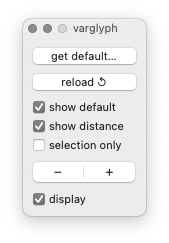
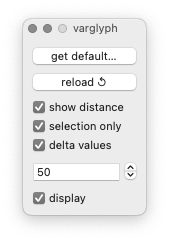
updating docs for VarGlyphViewer

diff --git a/Lib/xTools4/dialogs/variable/VarGlyphViewer.py b/Lib/xTools4/dialogs/variable/VarGlyphViewer.py
@@ -77,6 +77,10 @@ class VarGlyphViewer(ezui.WindowController):
             sizeStyle="regular",
             width='fill',
         ),
+        threshold=dict(
+            minValue=0,
+            maxValue=1000,
+        ),
     )
 
     def build(self):

diff --git a/docs/_reference/tools/variable/varglyph-viewer.md b/docs/_reference/tools/variable/varglyph-viewer.md
@@ -19,20 +19,17 @@ get default…
 reload
 : Reload the selected source from disk (in case it has changed).
 
-show default
-: Show the default glyph in the background.
-
 show distance
 : Show x and/or y distance of each point in relation to the default.
 
 selection only
 : Show the distance visualization only for selected points.
 
-subtract (-)
-: Subtract the default glyph from the current glyph.
+delta values
+: Display average delta values.
 
-add (+)
-: Add the default glyph to the current glyph.
+threshold
+: Adjust the threshold value between green and red values.
 
 display
 : Turn the visualisation on/off.
@@ -46,20 +43,37 @@ Display
 ![]({{ site.url }}/images/variable/VarGlyphViewer_preview.png){: .img-fluid}
 
 
-
 Color code
 ----------
+
+<style>
+.table { td:nth-child(1) { width: 8em; }
+</style>
+
+##### Vectors
 
 | <span class='blue'>blue</span>   | neither x nor y values changing | 
 | <span class='red'>red</span>     | only x or y value changing      | 
 | <span class='green'>green</span> | both x and y values changing    | 
 {: .table .table-hover }
 
+##### Values
 
-<div class="card bg-light mt-5 mb-3 rounded-0">
-<div class="card-header">note</div>
-<div class="card-body" markdown='1'>
-For more info on adding and subtracting glyphs, see [Using GlyphMath](http://doc.robofont.com/documentation/tutorials/using-glyphmath/).
-{: .card-text }
-</div>
-</div>
+| <span class='blue'>blue</span>   | no change               | 
+| <span class='red'>red</span>     | change beyond threshold | 
+| <span class='green'>green</span> | change below threshold  | 
+{: .table .table-hover }
+
+
+Average delta values
+--------------------
+
+Values are expressed in average delta units (per point / anchor / component).
+
+| Σ | total       |
+| P | points      |
+| A | anchors     |
+| C | components  |
+| W | width       |
+{: .table .table-hover }
+
